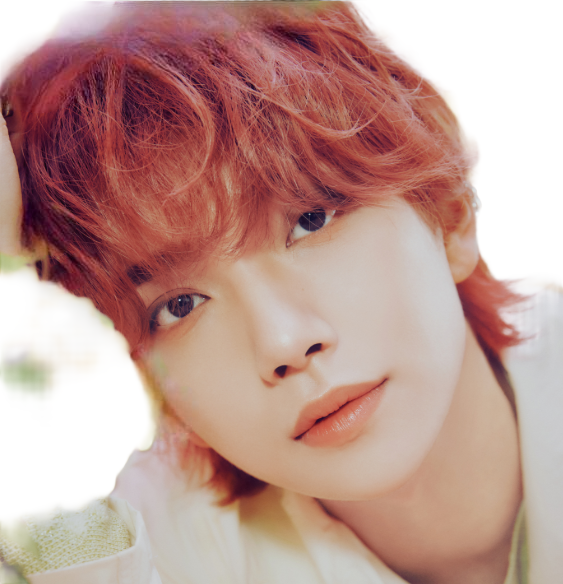
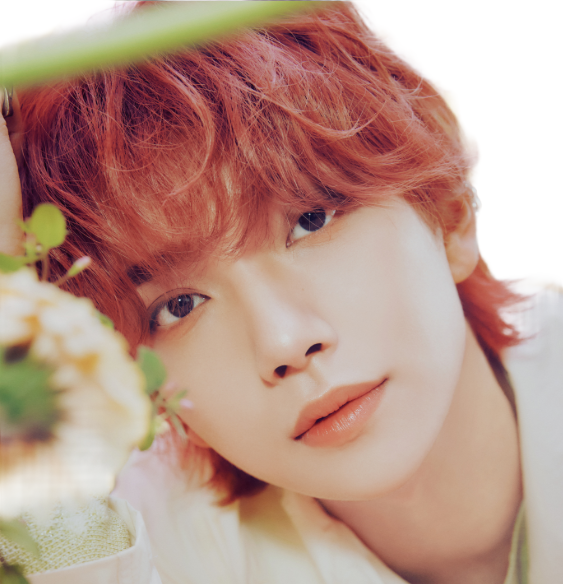
Sara Sara: swap Joshua photo (same framing); bump PHOTO_VER to 6

Changed region(s): [[0.0, 0.339, 0.3623, 1.0], [0.0, 0.0, 0.5435, 0.1849]]

diff --git a/js/ranking.js b/js/ranking.js
@@ -4,7 +4,7 @@
 /* ========================================= */
 
 /* Bump when the avatar images change, to bust the browser/Pages cache. */
-const PHOTO_VER = 5;
+const PHOTO_VER = 6;
 window.PHOTO_VER = PHOTO_VER;
 
 const Ranking = {
